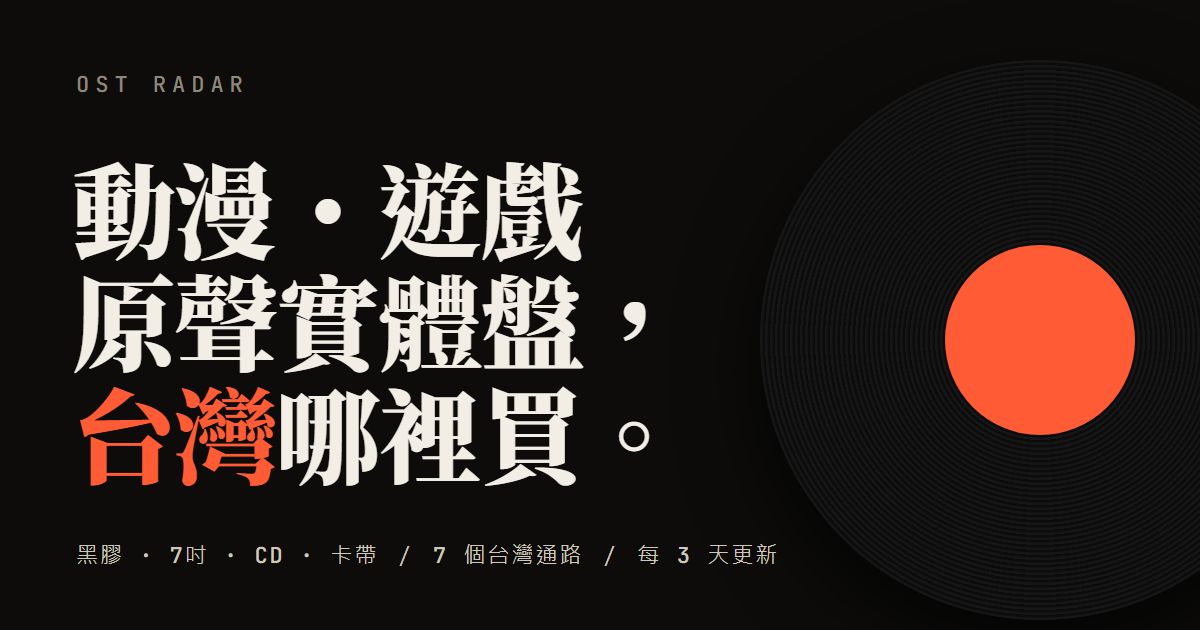
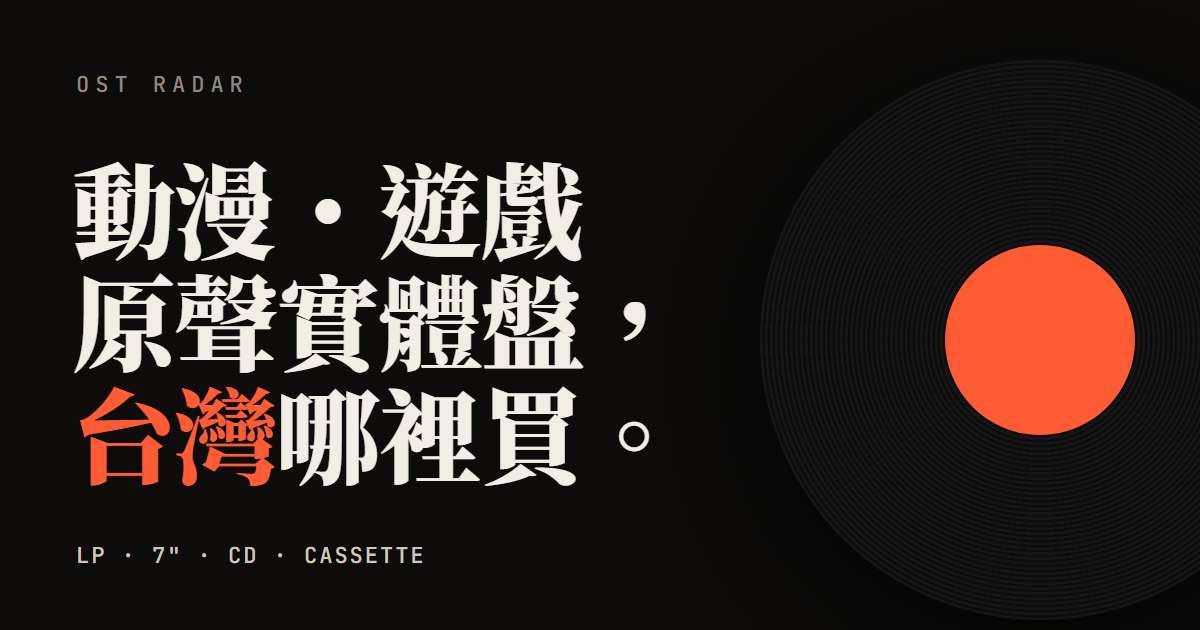
精簡網站文案
移除首頁說明段落、各區塊副標與空狀態說明，
縮短標題、統計標籤與分享描述，重新產生分享圖。

Changed region(s): [[0.0617, 0.8444, 0.4933, 0.9048], [0.5242, 0.8444, 0.6475, 0.9048]]

diff --git a/site/index.html b/site/index.html
@@ -5,12 +5,12 @@
 <meta name="viewport" content="width=device-width, initial-scale=1, viewport-fit=cover">
 <meta http-equiv="Content-Security-Policy" content="default-src 'self'; script-src 'self'; style-src 'self' https://fonts.googleapis.com; font-src https://fonts.gstatic.com; img-src 'self' https: data:; connect-src 'self'; manifest-src 'self'; object-src 'none'; base-uri 'self'; form-action 'none'; upgrade-insecure-requests">
 <meta name="referrer" content="strict-origin-when-cross-origin">
-<title>原聲雷達 OST Radar｜動漫・遊戲原聲實體盤在台灣哪裡買</title>
-<meta name="description" content="每 3 天自動更新：追蹤台灣 7 個通路的日本動畫、電玩原聲黑膠、CD、卡帶，預購、現貨、補貨與發售新聞一次看。">
+<title>原聲雷達 OST Radar</title>
+<meta name="description" content="日本動畫與電玩原聲的黑膠、CD、卡帶，台灣各通路的預購與現貨。">
 <meta name="theme-color" content="#0d0c0b" media="(prefers-color-scheme: dark)">
 <meta name="theme-color" content="#f3eee5" media="(prefers-color-scheme: light)">
 <meta property="og:title" content="原聲雷達 OST Radar">
-<meta property="og:description" content="動漫・遊戲原聲黑膠 / CD / 卡帶，台灣哪裡買得到。">
+<meta property="og:description" content="日本動畫與電玩原聲的黑膠、CD、卡帶，台灣各通路的預購與現貨。">
 <meta property="og:type" content="website">
 <meta property="og:url" content="https://wei176899.github.io/ost-radar/">
 <meta property="og:image" content="https://wei176899.github.io/ost-radar/assets/og.png">
@@ -21,8 +21,8 @@
 <link rel="preconnect" href="https://fonts.googleapis.com">
 <link rel="preconnect" href="https://fonts.gstatic.com" crossorigin>
 <link href="https://fonts.googleapis.com/css2?family=Instrument+Serif:ital@0;1&family=JetBrains+Mono:wght@400;600&family=Noto+Sans+TC:wght@400;500;700;900&family=Noto+Serif+TC:wght@600;900&display=swap" rel="stylesheet">
-<link rel="stylesheet" href="assets/style.css?v=5">
-<script src="assets/theme.js?v=5"></script>
+<link rel="stylesheet" href="assets/style.css?v=6">
+<script src="assets/theme.js?v=6"></script>
 </head>
 <body>
 <a class="skip" href="#catalog">跳到商品列表</a>
@@ -51,16 +51,14 @@
   <!-- ============================== HERO -->
   <section class="hero" aria-labelledby="heroTitle">
     <div class="hero-copy">
-      <p class="eyebrow"><span class="dot live"></span>每 3 天自動巡檢 · 7 個台灣通路</p>
       <h1 id="heroTitle" class="hero-title">
         <span class="line"><span>動漫・遊戲</span></span>
         <span class="line"><span>原聲實體盤，</span></span>
         <span class="line"><span><em>台灣</em>哪裡買。</span></span>
       </h1>
-      <p class="hero-lede">黑膠、7 吋、CD、卡帶——從博客來、誠品到唱片行與拍賣，自動比對<b>預購</b>、<b>現貨</b>與<b>補貨</b>，並逐筆回到商品頁複查庫存。</p>
       <div class="hero-cta">
-        <a class="btn primary" href="#upcoming">看即將發售<span aria-hidden="true">↓</span></a>
-        <a class="btn ghost" href="#catalog">搜尋全部商品</a>
+        <a class="btn primary" href="#upcoming">即將發售<span aria-hidden="true">↓</span></a>
+        <a class="btn ghost" href="#catalog">全部商品</a>
       </div>
     </div>
     <div class="hero-stage" aria-hidden="true">
@@ -68,7 +66,7 @@
         <div class="platter">
           <div class="record" id="heroRecord">
             <div class="grooves"></div>
-            <div class="label"><span class="label-count" id="heroCount">—</span><span class="label-cap">筆預購中</span></div>
+            <div class="label"><span class="label-count" id="heroCount">—</span><span class="label-cap">預購</span></div>
           </div>
         </div>
         <div class="tonearm"><span></span></div>
@@ -76,10 +74,10 @@
       <div class="sleeve-stack" id="heroSleeves"></div>
     </div>
     <dl class="stats" id="stats">
-      <div><dt>預購中</dt><dd data-k="pre">—</dd></div>
+      <div><dt>預購</dt><dd data-k="pre">—</dd></div>
       <div><dt>現貨</dt><dd data-k="stock">—</dd></div>
-      <div><dt>本期新上架</dt><dd data-k="new">—</dd></div>
-      <div><dt>已複查庫存</dt><dd data-k="verified">—</dd></div>
+      <div><dt>新上架</dt><dd data-k="new">—</dd></div>
+      <div><dt>已複查</dt><dd data-k="verified">—</dd></div>
     </dl>
   </section>
 
@@ -90,7 +88,6 @@
     <header class="section-head">
       <p class="kicker">01 — Upcoming</p>
       <h2 id="upTitle">即將發售</h2>
-      <p class="section-sub">有明確發售／出貨日的預購，依月份排列。</p>
     </header>
     <div class="months" id="months" role="tablist" aria-label="月份"></div>
     <div class="rail" id="upcomingRail"></div>
@@ -101,7 +98,6 @@
     <header class="section-head">
       <p class="kicker">02 — Pulse</p>
       <h2 id="pulseTitle">本期動態</h2>
-      <p class="section-sub">近 10 天新上架、補貨、到貨與降價。</p>
     </header>
     <div class="pulse-tabs" id="pulseTabs" role="tablist" aria-label="動態類型"></div>
     <div class="rail" id="pulseRail"></div>
@@ -112,12 +108,11 @@
     <header class="section-head">
       <p class="kicker">03 — Release Radar</p>
       <h2 id="newsTitle">發售新聞</h2>
-      <p class="section-sub">日本、台灣、海外的發售消息，以及遊戲／動畫唱片廠牌的最新預購。</p>
     </header>
     <div class="news-grid">
       <div class="news-main"><ol class="news-list" id="newsList"></ol></div>
       <aside class="labels" aria-labelledby="labelsTitle">
-        <h3 id="labelsTitle">海外廠牌新品</h3>
+        <h3 id="labelsTitle">海外廠牌</h3>
         <div class="label-grid" id="labelGrid"></div>
       </aside>
     </div>
@@ -159,9 +154,9 @@
           </label>
         </fieldset>
         <fieldset class="toggles">
-          <label class="switch"><input type="checkbox" id="onlyJp" checked><span></span>只看日系作品</label>
+          <label class="switch"><input type="checkbox" id="onlyJp" checked><span></span>只看日系</label>
           <label class="switch"><input type="checkbox" id="hideOut" checked><span></span>隱藏缺貨</label>
-          <label class="switch"><input type="checkbox" id="onlyVerified"><span></span>只看已複查庫存</label>
+          <label class="switch"><input type="checkbox" id="onlyVerified"><span></span>只看已複查</label>
         </fieldset>
         <div class="fp-foot">
           <button class="btn ghost" id="resetBtn" type="button">清除全部</button>
@@ -179,8 +174,7 @@
   <section class="section stores" id="stores" aria-labelledby="storeTitle">
     <header class="section-head">
       <p class="kicker">05 — Sources</p>
-      <h2 id="storeTitle">追蹤通路</h2>
-      <p class="section-sub">官方電商每筆都回到庫存 API 或商品頁複查；拍賣為個人／店家賣場，請留意正版與評價。</p>
+      <h2 id="storeTitle">通路</h2>
     </header>
     <ul class="store-list" id="storeList"></ul>
   </section>
@@ -189,7 +183,7 @@
 <footer class="foot">
   <div class="foot-big" aria-hidden="true">OST RADAR</div>
   <div class="foot-row">
-    <p>資料由程式自動擷取各通路公開頁面，價格與庫存以商品頁為準。</p>
+    <p>價格與庫存以各通路頁面為準。</p>
     <p><a href="data/items.csv" download>下載 CSV</a> · <span id="footMeta"></span></p>
   </div>
 </footer>
@@ -204,6 +198,6 @@
 </div>
 
 <noscript><p class="noscript">需要啟用 JavaScript 才能瀏覽商品資料。</p></noscript>
-<script src="assets/app.js?v=5" defer></script>
+<script src="assets/app.js?v=6" defer></script>
 </body>
 </html>

diff --git a/site/assets/app.js b/site/assets/app.js
@@ -91,7 +91,7 @@
     };
     if (!n.new) { // 第一次巡檢還沒有「新上架」基準，改顯示追蹤作品數
       const dd = $('#stats dd[data-k="new"]');
-      dd.previousElementSibling.textContent = "追蹤作品";
+      dd.previousElementSibling.textContent = "作品";
       n.new = (META.franchises || []).length;
     }
     $$("#stats dd").forEach((dd) => countUp(dd, n[dd.dataset.k]));
@@ -100,7 +100,7 @@
     const fill = pics.length < 3 ? jp.filter((i) => i.i && !MARKET.has(i.s) && i.st === "現貨").slice(0, 3 - pics.length) : [];
     $("#heroSleeves").innerHTML = [...pics, ...fill].map((i) => `<img class="ok" src="${esc(safeUrl(i.i))}" alt="" referrerpolicy="no-referrer" data-ph>`).join("");
     if (META.generated) $("#updated").textContent = `更新 ${META.generated.slice(5).replace("-", "/")}`;
-    $("#footMeta").textContent = META.generated ? `最後更新 ${META.generated}（台北時間）· ${fmtN(META.total)} 筆商品 · ${fmtN(META.news)} 則新聞` : "";
+    $("#footMeta").textContent = META.generated ? `更新於 ${META.generated.replace(/-/g, ".")} · ${fmtN(META.total)} 筆 · ${fmtN(META.news)} 則新聞` : "";
   }
 
   /* ------------------------------------------------------------ ticker */
@@ -140,8 +140,8 @@
     if (undated.length) defs.push({ k: "tba", label: `日期未定<small>${undated.length}</small>`, list: undated });
     if (market.length) defs.push({ k: "market", label: `拍賣代購<small>${market.length}</small>`, list: market.slice(0, 60) });
     const map = Object.fromEntries(defs.map((d) => [d.k, d.list]));
-    tabs($("#months"), defs, (k) => rail($("#upcomingRail"), map[k] || [], "目前沒有預購商品"));
-    if (!defs.length) rail($("#upcomingRail"), [], "目前沒有預購商品");
+    tabs($("#months"), defs, (k) => rail($("#upcomingRail"), map[k] || [], "目前沒有預購"));
+    if (!defs.length) rail($("#upcomingRail"), [], "目前沒有預購");
   }
 
   function renderPulse() {
@@ -157,7 +157,7 @@
     ].filter((d) => d.list.length || d.k === "all");
     const map = Object.fromEntries(defs.map((d) => [d.k, d.list]));
     tabs($("#pulseTabs"), defs.map((d) => ({ k: d.k, label: `${d.name}<small>${d.list.length}</small>` })),
-      (k) => rail($("#pulseRail"), map[k].slice(0, 80), "這期沒有新變動——第一次執行時會建立基準，下次更新起就會出現新上架、補貨與降價。"));
+      (k) => rail($("#pulseRail"), map[k].slice(0, 80), "目前沒有變動。"));
   }
 
   /* ------------------------------------------------------------ news */
@@ -169,7 +169,7 @@
       $("#newsList").innerHTML = news.slice(0, shown).map((n) => `
         <li><a href="${esc(safeUrl(n.url))}" ${ext}>
           <time datetime="${esc(n.date)}">${esc(n.date.replace(/-/g, "."))}</time>
-          <span><span class="nt">${esc(n.title).replace(HL, "<mark>$1</mark>")}</span><span class="ns">${esc(n.source)}${n.related ? ` · 另有 ${n.related} 則報導` : ""}${n.franchise ? " · " + esc(n.franchise) : ""}</span></span>
+          <span><span class="nt">${esc(n.title).replace(HL, "<mark>$1</mark>")}</span><span class="ns">${esc(n.source)}${n.related ? ` · +${n.related} 則相關` : ""}${n.franchise ? " · " + esc(n.franchise) : ""}</span></span>
           ${n.release && n.release >= TODAY ? `<span class="rel">${esc(n.release.slice(5).replace("-", "/"))} 發售</span>` : "<span></span>"}
         </a></li>`).join("") || `<li class="rail-empty">尚無新聞</li>`;
       let more = $("#newsMore");
@@ -179,7 +179,7 @@
           more.addEventListener("click", () => { shown += 12; draw(); });
           $("#newsList").after(more);
         }
-        more.textContent = `顯示更多（還有 ${news.length - shown} 則）`;
+        more.textContent = `更多 · ${news.length - shown}`;
       } else if (more) more.remove();
     };
     draw();
@@ -264,7 +264,7 @@
     filtered = ITEMS.filter((i) => match(i)).sort(SORTS[F.sort] || SORTS.smart);
     cursor = 0;
     $("#grid").innerHTML = "";
-    if (!filtered.length) $("#grid").innerHTML = `<div class="empty"><b>沒有符合的商品</b>試試放寬篩選，或關閉「只看日系」「隱藏缺貨」。</div>`;
+    if (!filtered.length) $("#grid").innerHTML = `<div class="empty"><b>沒有符合的商品</b></div>`;
     more();
     const pre = filtered.filter((i) => i.st === "預購").length, stock = filtered.filter((i) => i.st === "現貨").length;
     $("#resultLine").innerHTML = `<b>${fmtN(filtered.length)}</b> 筆 · 預購 ${fmtN(pre)} · 現貨 ${fmtN(stock)}`;
@@ -354,8 +354,8 @@
     lastFocus = document.activeElement;
     const st = ST_CLS[it.st] || "unk";
     const ver = it.v
-      ? `<span class="ver">✓ ${esc(META.generated?.slice(5, 10).replace("-", "/") || "")} 已複查${it.q != null && it.st !== "缺貨" ? `・庫存 ${it.q}` : ""}</span>`
-      : `<span class="ver no">尚未複查庫存，請以商品頁為準</span>`;
+      ? `<span class="ver">✓ ${esc(META.generated?.slice(5, 10).replace("-", "/") || "")} 複查${it.q != null && it.st !== "缺貨" ? `・庫存 ${it.q}` : ""}</span>`
+      : `<span class="ver no">未複查</span>`;
     const rows = [
       ["格式", `${esc(FMT_LONG[it.f] || it.f)}${it.d ? `（${esc(it.d)} 張）` : ""}`],
       ["類型", `${KIND[it.k] || ""}・${SUB[it.sb] || ""}`],
@@ -378,7 +378,7 @@
       <div class="sb-status"><span class="pill ${st}">${esc(stLabel(it))}</span>${ver}</div>
       <dl class="sb-dl">${rows.map(([k, v]) => `<dt>${k}</dt><dd>${v}</dd>`).join("")}</dl>
       <a class="btn primary sb-buy" href="${esc(safeUrl(it.u))}" ${ext}>前往 ${esc(srcName(it.s))} <span aria-hidden="true">↗</span></a>
-      ${alts.length ? `<div class="sb-alt"><h4>其他通路的相似商品</h4><p>依品名比對，可用來比價或找現貨。</p>
+      ${alts.length ? `<div class="sb-alt"><h4>其他通路</h4>
         ${alts.map((o) => `<a class="alt-row" href="#" data-i="${o._i}">${o.i ? img(o.i, "", "ok") : `<span class="ph"></span>`}
           <span><span class="at">${esc(o.t)}</span><span class="as">${esc(srcName(o.s))}</span></span>
           <span class="ap">${o.p ? "$" + fmtN(o.p) : "—"}<span>${esc(o.st)}</span></span></a>`).join("")}</div>` : ""}`;

diff --git a/site/assets/style.css b/site/assets/style.css
@@ -141,7 +141,7 @@ button { font: inherit; color: inherit; cursor: pointer; }
 @keyframes draw { to { transform: scaleX(1); } }
 .hero-lede { max-width: 34em; color: var(--ink-2); font-size: clamp(15px, 1.25vw, 18px); margin: 28px 0 32px; opacity: 0; animation: fade .9s .45s forwards; }
 .hero-lede b { color: var(--ink); font-weight: 700; }
-.hero-cta { display: flex; flex-wrap: wrap; gap: 12px; opacity: 0; animation: fade .9s .6s forwards; }
+.hero-cta { display: flex; flex-wrap: wrap; gap: 12px; margin-top: clamp(28px, 3.4vw, 48px); opacity: 0; animation: fade .9s .45s forwards; }
 @keyframes fade { to { opacity: 1; } }
 
 .hero-stage { position: relative; aspect-ratio: 1; width: 100%; max-width: 560px; justify-self: end; opacity: 0; animation: fade 1.2s .2s forwards; }
